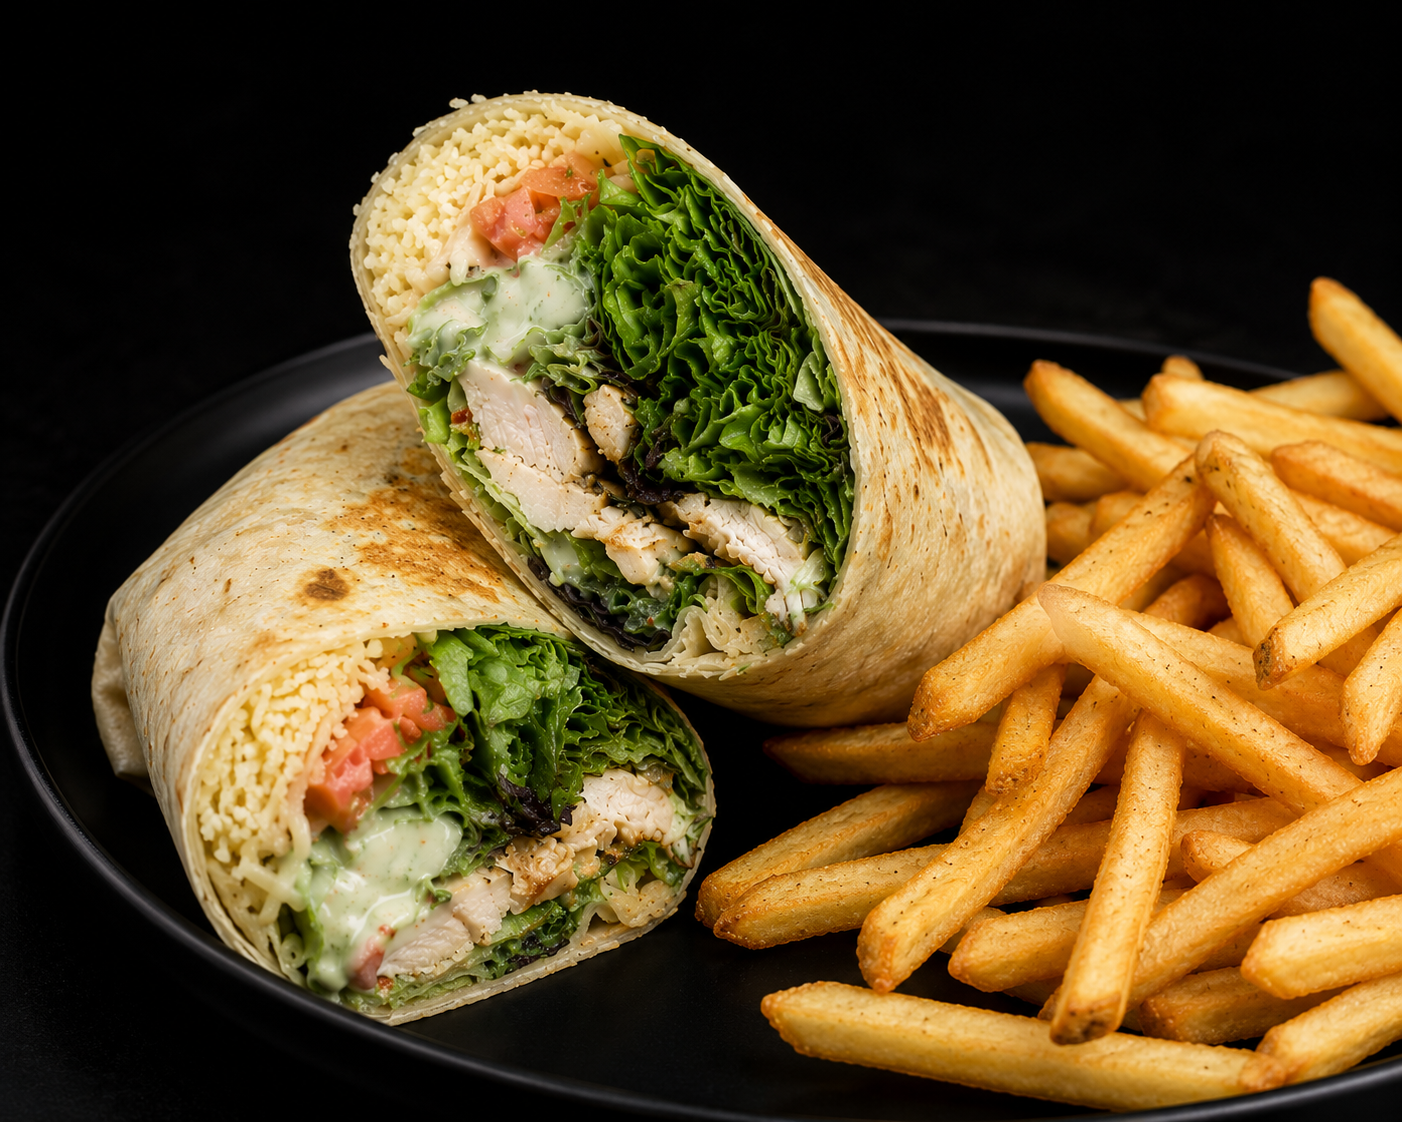
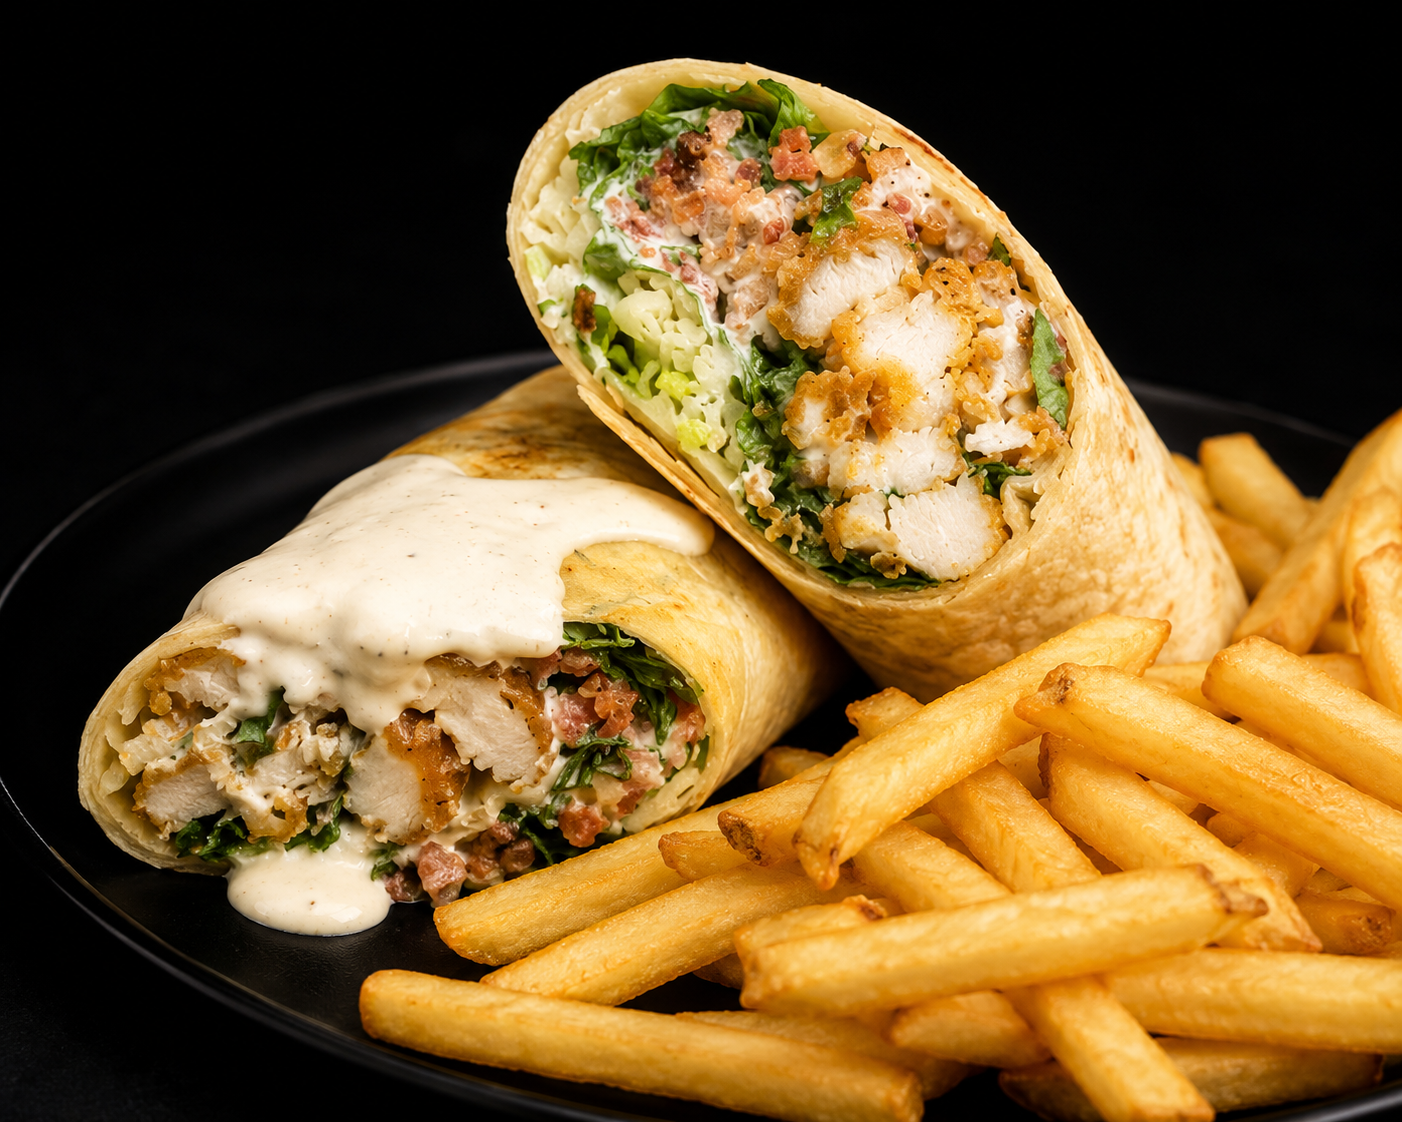
Update digital menu and add new menu images

diff --git a/menu.html b/menu.html
@@ -43,16 +43,16 @@
 
             <div class="menu-info">
 
-                <h2>Cuban Torta</h2>
+                <h2>Torta Cuabana</h2>
 
                 <p>
-                    Crispy chicken wrapped in a warm flour tortilla 
-                    with crisp lettuce, 
-                    fresh tomatoes, melted cheese, 
-                    and creamy Caesar dressing.
+                    Our ultimate Mexican torta stacked with breaded steak, ham, turkey, hot dog, 
+                    Mexican sausage, chorizo, egg, quesillo, queso fresco, and refried beans. 
+                    Topped with fresh lettuce, tomato, onion, avocado, mayonnaise, and your choice of pickled jalapeños 
+                    or chipotle peppers in adobo sauce
                 </p>
 
-                <span class="price">$15</span>
+                <span class="price">$22</span>
 
             </div>
         </div>
@@ -69,13 +69,13 @@
                 <h2>Hawaiian Torta</h2>
 
                 <p>
-                    Crispy chicken wrapped in a warm flour tortilla 
-                    with crisp lettuce, 
-                    fresh tomatoes, melted cheese, 
-                    and creamy Caesar dressing.
+                    A toasted Mexican torta stacked with breaded steak, ham, 
+                    melted quesillo, and sweet pineapple. 
+                    Topped with crisp lettuce, fresh tomato, avocado, mayonnaise, 
+                    and your choice of pickled jalapeños or chipotle peppers in adobo sauce.
                 </p>
 
-                <span class="price">$15</span>
+                <span class="price">$20</span>
 
             </div>
         </div>
@@ -107,7 +107,7 @@
 
             <div class="menu-image">
                 <!-- Replace image later -->
-                <img src="images/hawaiian-placeholder.jpg" alt="Hawaiian Burger">
+                <img src="images/hawaiianBurger.png" alt="Hawaiian Burger">
             </div>
 
             <div class="menu-info">
@@ -164,6 +164,28 @@
                 </p>
 
                 <span class="price">$15</span>
+
+            </div>
+        </div>
+
+         <!-- Steak Tacos -->
+        <div class="menu-card">
+
+            <div class="menu-image">
+                <img src="images/tacos.png" alt="Quesabirria">
+            </div>
+
+            <div class="menu-info">
+
+                <h2>Street Steak Tacos</h2>
+
+                <p>
+                    Four authentic street tacos made with seasoned chopped steak on warm corn tortillas, 
+                    finished with fresh onions and cilantro. 
+                    Served with lime wedges and homemade salsa..
+                </p>
+
+                <span class="price">$14</span>
 
             </div>
         </div>
@@ -274,7 +296,7 @@
                     and your choice of tender chicken, seasoned steak, or savory chorizo.
                 </p>
 
-                <span class="price">$15</span>
+                <span class="price">$14</span>
 
             </div>
         </div>
@@ -296,7 +318,7 @@
                     Mexican crumbled cheese, and finished with a sprinkle of Tajín.
                 </p>
 
-                <span class="price">$15</span>
+                <span class="price">$8</span>
 
             </div>
         </div>
